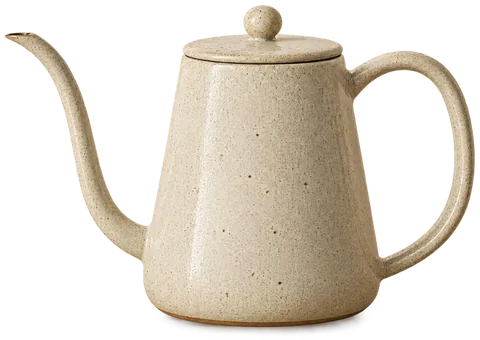
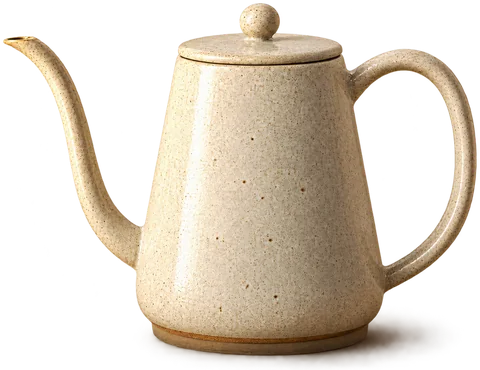
website: balance the landscape hero still
Relight the kettle so its shadow sits on the stone table, and place the body on the right third with room for a later selection box. The left text block shares one left edge and is centered in the frame.

Refs #184

Model: grok-4.7

Changed region(s): [[0.0, 0.0, 1.0, 1.0]]

diff --git a/website/src/style.css b/website/src/style.css
@@ -68,18 +68,18 @@ html[data-lang=zh] .hero h1{font-size:76px;font-size:min(76px,calc((100cqi - 8px
 .stage{position:relative;margin:36px auto 0;width:100%;aspect-ratio:1536/864;container-type:inline-size;border-radius:12px;overflow:hidden;box-shadow:0 0 0 1px var(--line);background:#e4d3bc}
 .stage-fit{position:relative;width:100%;height:100%}
 .hero-plate{position:absolute;inset:0;width:100%;height:100%;display:block;object-fit:cover}
-.hero-kettle{position:absolute;right:1.82%;bottom:.93%;width:56%;height:auto;display:block}
+.hero-kettle{position:absolute;left:42.97%;top:33.45%;width:37.76%;height:auto;display:block}
 [data-theme=dark] .hero-plate,[data-theme=dark] .hero-kettle{filter:brightness(.92)}
-.hero-copy{position:absolute;left:4.69%;top:8.33%;width:33.85%;color:#173a2c}
+.hero-copy{position:absolute;left:0;top:0;height:100%;width:38%;box-sizing:border-box;padding:7% 0 7% 4.7%;display:flex;flex-direction:column;justify-content:center;text-align:left;color:#173a2c}
 .hs-mast{display:flex;justify-content:space-between;gap:.8em;align-items:baseline;margin:0;padding-bottom:.7em;border-bottom:1px solid rgba(23,58,44,.28);font:600 calc(100cqi * 16 / 1536)/1.2 var(--sans);letter-spacing:.04em}
 .hs-mast>span+span{font:500 calc(100cqi * 13 / 1536) var(--mono)}
-.hs-head{margin:.45em 0 0;font:450 calc(100cqi * 60 / 1536)/1.02 var(--sans);letter-spacing:-.04em}
-html[data-lang=zh] .hs-head{font-size:calc(100cqi * 48 / 1536);line-height:1.15;letter-spacing:-.02em;font-weight:500}
-.hs-spec{display:grid;gap:.7em;margin:1.1em 0 0;padding-top:.7em;border-top:1px solid rgba(23,58,44,.28);font-size:calc(100cqi * 20 / 1536)}
-.hs-spec div{display:grid;grid-template-columns:42% 1fr;gap:.4em;align-items:baseline}
-.hs-spec dt{margin:0;font:500 .6em var(--mono);text-transform:uppercase;letter-spacing:.06em}
+.hs-head{margin:.5em 0 0;font:450 calc(100cqi * 56 / 1536)/1.02 var(--sans);letter-spacing:-.04em}
+html[data-lang=zh] .hs-head{font-size:calc(100cqi * 46 / 1536);line-height:1.15;letter-spacing:-.02em;font-weight:500}
+.hs-spec{display:grid;grid-template-columns:4.6em 1fr;gap:.45em 1.1em;margin:1em 0 0;padding-top:.75em;border-top:1px solid rgba(23,58,44,.28);font-size:calc(100cqi * 18 / 1536);align-items:baseline}
+.hs-spec div{display:contents}
+.hs-spec dt{margin:0;font:500 .62em var(--mono);text-transform:uppercase;letter-spacing:.06em}
 .hs-spec dd{margin:0;font:500 1em var(--sans)}
-.hs-cap{display:flex;justify-content:space-between;gap:.6em;margin:1.2em 0 0;font:500 calc(100cqi * 15 / 1536) var(--sans)}
+.hs-cap{display:flex;justify-content:space-between;gap:.8em;margin:1.15em 0 0;font:500 calc(100cqi * 15 / 1536) var(--sans)}
 .hs-cap small{font:400 .8em var(--mono)}
 
 .band{margin-top:88px}

diff --git a/website/build.py b/website/build.py
@@ -147,7 +147,7 @@ def trust_line():
 def hero_stage():
     return f'''<div class="stage"><div class="stage-fit" role="img" aria-label="[[示意静帧：横版石材画面铺满画幅。左侧是可编辑的标题和材质说明，右侧是单独的粗陶茶壶图层。||Illustration: a landscape still filling the frame. Editable headline and material specs sit on the left. A separate stoneware kettle layer sits on the right.]]">
     <img class="hero-plate" src="@@A:img/hero-plate.webp@@" srcset="@@A:img/hero-plate-768.webp@@ 768w, @@A:img/hero-plate.webp@@ 1536w" sizes="(max-width:700px) calc(100vw - 40px), (max-width:1224px) calc(100vw - 64px), 1096px" width="1536" height="864" alt="" aria-hidden="true" fetchpriority="high" decoding="sync">
-    <img class="hero-kettle" src="@@A:img/hero-kettle.webp@@" srcset="@@A:img/hero-kettle-480.webp@@ 480w, @@A:img/hero-kettle.webp@@ 964w" sizes="(max-width:700px) 56vw, 614px" width="964" height="682" alt="" aria-hidden="true">
+    <img class="hero-kettle" src="@@A:img/hero-kettle.webp@@" srcset="@@A:img/hero-kettle-480.webp@@ 480w, @@A:img/hero-kettle.webp@@ 1014w" sizes="(max-width:700px) 40vw, 442px" width="1014" height="782" alt="" aria-hidden="true">
     <div class="hero-copy">
       <p class="hs-mast"><span>Stillwater Clay</span><span>[[日常器物 / 01||Everyday objects / 01]]</span></p>
       <p class="hs-head">[[留一点时间，慢慢来。||Time, well spent.]]</p>

diff --git a/website/docs/NOTES.md b/website/docs/NOTES.md
@@ -57,10 +57,10 @@ Every shipped image and video was checked by eye. Raw masters (app captures and 
 
 ## Hero animation
 
-- The hero demo still is a 1536×864 landscape. A warm stone photograph fills the stage edge to edge. HTML text sits on the left: the headline and the Material, Finish and Made lines. The speckled kettle is a separate transparent layer on the right. Mobile scales that same frame (#184).
+- The hero demo still is a 1536×864 landscape. A warm stone photograph fills the stage edge to edge. The text block is vertically centered on the left. The speckled kettle is a separate transparent layer whose body sits on the right third, with room around it for a later selection box (#184).
 - Selection, drag, scale and the Regenerate pill are not wired on this still.
 - The hero headline is one sentence per line in both languages. The second sentence keeps the highlight. The subheadline under it is gone (#184).
-- The labelled image role wraps the still, so the page's `h1` stays the LCP element.
+- The plate photograph is the LCP element. The labelled image role describes the still; it does not change which element Lighthouse paints first.
 
 ## Videos
 
